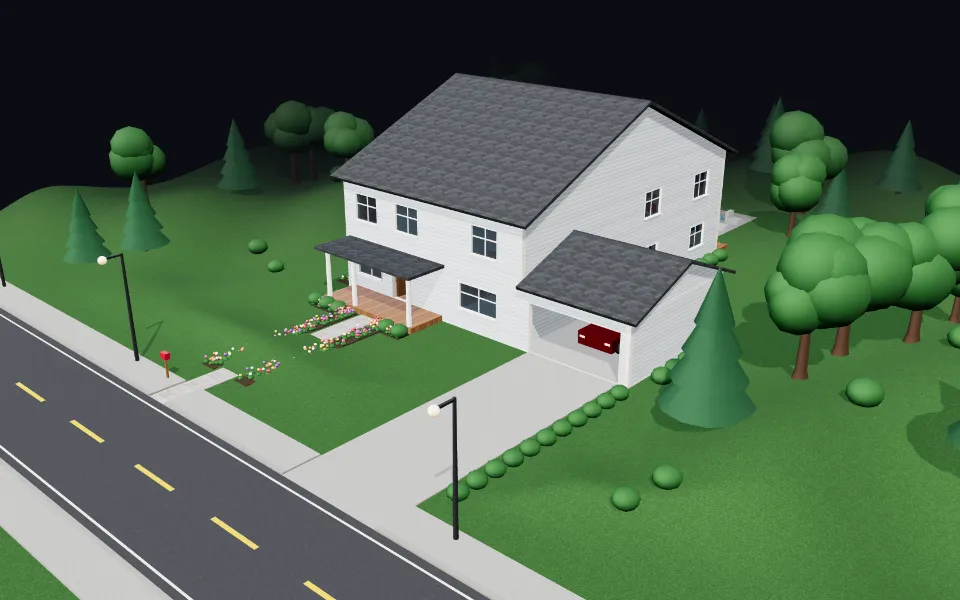
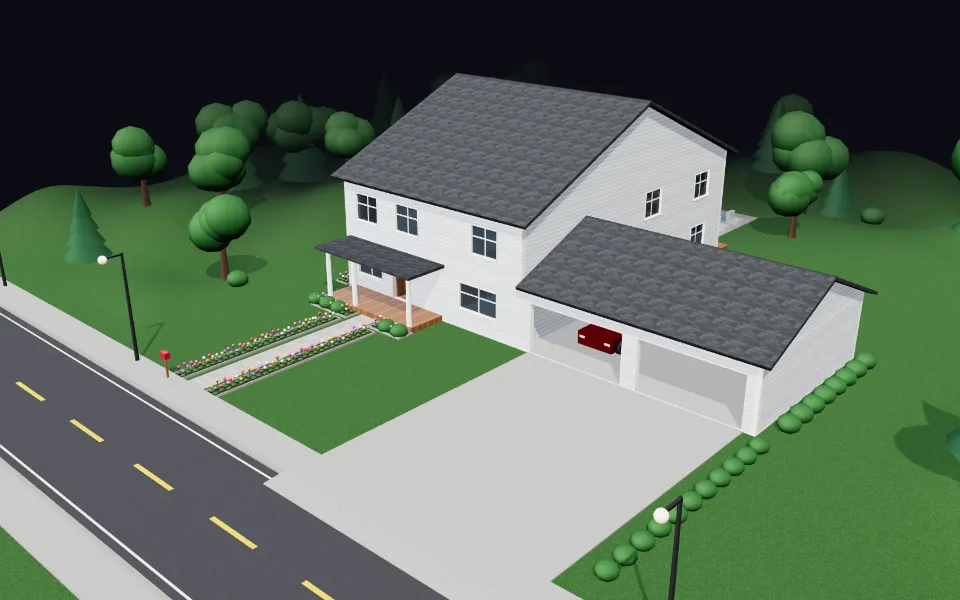
Villa 3D: Garage doppelt so breit und laenger mit Regalen und Motorrad; Weg und Buergersteig sauber verbunden

diff --git a/sachen/villa/index.html b/sachen/villa/index.html
@@ -357,6 +357,7 @@
       markWhite: M({ color: 0xe8e8e2, roughness: 0.8 }),
       markYellow: M({ color: 0xe6b422, roughness: 0.8 }),
       curb: M({ color: 0x8f8d88, roughness: 0.9 }),
+      bikePaint: P({ color: 0x1b4fa8, metalness: 0.6, roughness: 0.25, clearcoat: 1, clearcoatRoughness: 0.08 }),
       redBox: M({ color: 0xb3262e, roughness: 0.5 }),
       steel: M({ color: 0xb8bcc0, metalness: 0.9, roughness: 0.3 }),
       dark: M({ color: 0x24262a, roughness: 0.6 }),
@@ -466,7 +467,7 @@
     }
 
     // --- Gelaende: flach um Haus, Einfahrt und Pool, nach aussen sanfte Huegel ---
-    const FLAT = [[-8.5, 14, -23.5, 17], [-34, 40, 16, 28.5]];
+    const FLAT = [[-8.5, 22, -23.5, 17], [-34, 40, 16, 28.5]];
     const HOLES = [[-HX, HX, BZ, HZ], [POOL.x0 - 0.2, POOL.x1 + 0.2, POOL.z0 - 0.2, POOL.z1 + 0.2]];
     const inRect = (x, z, [x0, x1, z0, z1]) => x > x0 && x < x1 && z > z0 && z < z1;
     function terrain(x, z) {
@@ -625,7 +626,7 @@
       world.add(col);
       circles.push([x, HZ + 2.0, 0.15]);
     }
-    box(-2.6, 0, HZ + 2.2, -1.4, 0.04, ROAD.z0, mat.stone, { name: "Weg" });
+    box(-2.6, 0, HZ + 2.2, -1.4, 0.04, ROAD.walk0, mat.stone, { name: "Weg" });
 
     // Haustuer offen nach innen
     {
@@ -640,16 +641,91 @@
     }
 
     // --- Garage rechts, Tuer zur Kueche, Tor offen ---
-    const GX0 = HX, GX1 = 12.125, GZ0 = -3.125, GZ1 = HZ, GH = 3.2;
-    box(GX0, 0, GZ0, GX1, 0.1, GZ1, floorFaces(mat.concrete, mat.concrete), { name: "Garagenboden" });
-    wall("x", GX0, GX1, GZ0 + WALL / 2, 0, GH, [], faces("-z", mat.siding, mat.plaster));
-    wall("z", GZ0 + WALL, GZ1, GX1 - WALL / 2, 0, GH, [], faces("+x", mat.siding, mat.plaster));
-    wall("x", GX0, GX1, GZ1 - WALL / 2, 0, GH, [[6.6, 11.6, 0, 2.5]], faces("+z", mat.siding, mat.plaster));
-    box(GX0, GH, GZ0, GX1, GH + 0.1, GZ1, floorFaces(mat.trim, mat.ceiling), { name: "Garagendecke" });
-    box(6.6, 2.5, 1.6, 11.6, 2.56, GZ1 - 0.1, mat.white, { name: "Garagentor (offen)" });
-    gableRoof(GX0, GX1, GZ0, GZ1, GH + 0.1, 1.5, 0.45, roof, 0);
-    gable(GX1, GZ0, GZ1, GH + 0.1, 1.5, roof);
-    box(6.6, 0, GZ1, 11.6, 0.05, ROAD.z0, mat.concrete, { name: "Einfahrt" });
+    // Doppelt so breit (12 m) und laenger (9.6 m): zwei Stellplaetze (Auto, Motorrad), hinten Regale
+    const GX0 = HX, GX1 = 18.125, GZ0 = -5.0, GZ1 = HZ, GH = 3.2;
+    const DOORS = [[6.7, 11.7], [12.5, 17.5]];
+    const DRIVE = [6.6, 17.6];
+    box(GX0, 0, GZ0, GX1, 0.1, GZ1, floorFaces(mat.concrete, mat.concrete), { name: 'Garagenboden' });
+    wall('x', GX0, GX1, GZ0 + WALL / 2, 0, GH, [], faces('-z', mat.siding, mat.plaster));
+    wall('z', GZ0 + WALL, GZ1, GX1 - WALL / 2, 0, GH, [], faces('+x', mat.siding, mat.plaster));
+    wall('x', GX0, GX1, GZ1 - WALL / 2, 0, GH, DOORS.map(([a, b]) => [a, b, 0, 2.5]), faces('+z', mat.siding, mat.plaster));
+    box(GX0, GH, GZ0, GX1, GH + 0.1, GZ1, floorFaces(mat.trim, mat.ceiling), { name: 'Garagendecke' });
+    for (const [a, b] of DOORS) box(a, 2.5, 1.6, b, 2.56, GZ1 - 0.1, mat.white, { name: 'Garagentor (offen)' });
+    gableRoof(GX0, GX1, GZ0, GZ1, GH + 0.1, 2.0, 0.45, roof, 0);
+    gable(GX1, GZ0, GZ1, GH + 0.1, 2.0, roof);
+    // Einfahrt: vor der Garage auf Hoehe 0.05, ueber den Buergersteig durchgehend auf 0.12, am Randstein abgesenkt
+    box(DRIVE[0], 0, GZ1, DRIVE[1], 0.05, ROAD.walk0, mat.concrete, { name: 'Einfahrt' });
+    box(DRIVE[0], 0, ROAD.walk0, DRIVE[1], 0.12, ROAD.z0 - 0.2, mat.concrete, { name: 'Einfahrt' });
+    {
+      // Absenkung: schraege Platte vom Gehweg (0.12) zur Fahrbahn (0.03)
+      const len = 1.0, ramp = new THREE.Mesh(new THREE.BoxGeometry(DRIVE[1] - DRIVE[0], 0.05, len), mat.concrete);
+      ramp.rotation.x = Math.atan2(0.09, len);
+      ramp.position.set((DRIVE[0] + DRIVE[1]) / 2, 0.075, ROAD.z0 - 0.2 + len / 2);
+      ramp.receiveShadow = true;
+      world.add(ramp);
+    }
+
+    // Regale: Staender, vier Bretter, Kisten; als ein fester Block (Kollision)
+    const garage = new THREE.Group();
+    garage.name = 'Garage';
+    world.add(garage);
+    const grng = rng(77);
+    function shelf(x0, x1, z0, z1) {
+      const g = (a, y0, b, y1, c, d, m) => box(a, y0, c, b, y1, d, m, { parent: garage, solid: false });
+      const alongX = x1 - x0 > z1 - z0;
+      const n = Math.max(2, Math.round((alongX ? x1 - x0 : z1 - z0) / 1.1) + 1);
+      for (let i = 0; i < n; i++) {
+        const t = i / (n - 1);
+        if (alongX) { const x = x0 + 0.03 + t * (x1 - x0 - 0.06); g(x - 0.025, 0, x + 0.025, 2.0, z0, z1, mat.steel); }
+        else { const z = z0 + 0.03 + t * (z1 - z0 - 0.06); g(x0, 0, x1, 2.0, z - 0.025, z + 0.025, mat.steel); }
+      }
+      const crates = [mat.redBox, mat.fabric, mat.dark, mat.carpet, mat.wood];
+      for (let k = 0; k < 4; k++) {
+        const y = 0.35 + k * 0.5;
+        g(x0, y, x1, y + 0.04, z0, z1, mat.wood);
+        const len = alongX ? x1 - x0 : z1 - z0;
+        for (let p = 0.15; p < len - 0.5; p += 0.45 + grng() * 0.35) {
+          const w = 0.28 + grng() * 0.25, h = 0.16 + grng() * 0.22, m = crates[Math.floor(grng() * crates.length)];
+          if (alongX) g(x0 + p, y + 0.04, x0 + p + w, y + 0.04 + h, z0 + 0.06, z1 - 0.06, m);
+          else g(x0 + 0.06, y + 0.04, x1 - 0.06, y + 0.04 + h, z0 + p, z0 + p + w, m);
+        }
+      }
+      solids.push({ x0, x1, y0: 0, y1: 2.0, z0, z1 });
+    }
+    const BACK = GZ0 + WALL;
+    shelf(6.7, 9.9, BACK, BACK + 0.5);
+    shelf(10.4, 13.6, BACK, BACK + 0.5);
+    shelf(14.1, 17.3, BACK, BACK + 0.5);
+    shelf(GX0, GX0 + 0.5, -4.2, -1.6);
+    shelf(GX1 - WALL - 0.5, GX1 - WALL, -4.2, -1.0);
+
+    // Motorrad im zweiten Stellplatz, Bug zur Garagenoeffnung (+z)
+    {
+      const g = (a, y0, b, y1, c, d, m) => box(a, y0, c, b, y1, d, m, { parent: garage, solid: false });
+      const bx = 15.2;
+      for (const z of [-1.8, -3.15]) {
+        const w = new THREE.Mesh(new THREE.CylinderGeometry(0.33, 0.33, 0.14, 24), mat.tire);
+        w.rotation.z = Math.PI / 2;
+        w.position.set(bx, 0.33, z);
+        w.castShadow = true;
+        garage.add(w);
+        const hub = new THREE.Mesh(new THREE.CylinderGeometry(0.12, 0.12, 0.16, 12), mat.steel);
+        hub.rotation.z = Math.PI / 2;
+        hub.position.set(bx, 0.33, z);
+        garage.add(hub);
+      }
+      g(bx - 0.04, 0.38, bx + 0.04, 0.62, -3.2, -1.9, mat.dark);          // Rahmen
+      g(bx - 0.14, 0.28, bx + 0.14, 0.55, -2.85, -2.3, mat.steel);        // Motor
+      g(bx - 0.17, 0.62, bx + 0.17, 0.9, -2.75, -2.0, mat.bikePaint);     // Tank
+      g(bx - 0.14, 0.62, bx + 0.14, 0.76, -3.35, -2.75, mat.dark);        // Sitz
+      g(bx - 0.03, 0.3, bx + 0.03, 1.02, -1.85, -1.75, mat.steel);        // Gabel
+      g(bx - 0.28, 1.0, bx + 0.28, 1.06, -1.88, -1.78, mat.dark);         // Lenker
+      g(bx + 0.14, 0.22, bx + 0.24, 0.34, -3.5, -2.4, mat.steel);         // Auspuff
+      const lamp = new THREE.Mesh(new THREE.SphereGeometry(0.1, 12, 8), mat.lamp);
+      lamp.position.set(bx, 0.88, -1.72);
+      garage.add(lamp);
+      solids.push({ x0: bx - 0.3, x1: bx + 0.3, y0: 0, y1: 1.1, z0: -3.55, z1: -1.45 });
+    }
 
     // Auto: Karosserie, Kabine mit Scheiben, Raeder
     {
@@ -781,8 +857,8 @@
       world.add(street);
       const st = (a, y0, b, y1, c, d, m, solid = true) => box(a, y0, c, b, y1, d, m, { parent: street, solid });
       st(x0, 0, x1, 0.03, z0, z1, mat.asphalt);
-      // Buergersteig vorne: Luecken fuer Weg (-2.6..-1.4) und Einfahrt (6.6..11.6), dort laeuft Pflaster/Beton durch
-      for (const [a, b] of [[x0, -2.6], [-1.4, 6.6], [11.6, x1]]) {
+      // Buergersteig vorne: durchgehend, nur an der Einfahrt unterbrochen (dort laeuft die Einfahrt durch); der Weg schliesst am Buergersteig an
+      for (const [a, b] of [[x0, DRIVE[0]], [DRIVE[1], x1]]) {
         st(a, 0, b, 0.12, walk0, z0 - 0.2, mat.concrete);
         st(a, 0, b, 0.12, z0 - 0.2, z0, mat.curb);
       }
@@ -795,7 +871,7 @@
       st(x0, 0.03, x1, 0.035, z0 + 0.35, z0 + 0.45, mat.markWhite, false);
       st(x0, 0.03, x1, 0.035, z1 - 0.45, z1 - 0.35, mat.markWhite, false);
       // Strassenlampen auf dem Buergersteig, Leuchtkoerper nachts hell
-      for (const x of [-20, -6, 14, 28]) {
+      for (const x of [-20, -6, 22, 32]) {
         const pole = new THREE.Mesh(new THREE.CylinderGeometry(0.06, 0.09, 5.2, 10), mat.dark);
         pole.position.set(x, 2.7, walk0 + 0.4);
         pole.castShadow = true;
@@ -876,8 +952,8 @@
     for (let x = -5.6; x <= 0.8; x += 0.9) if (Math.abs(x + 2) > 1) bushSpots.push([x, HZ + 2.7, 0.45]);
     for (let z = -13; z <= 4; z += 1.1) bushSpots.push([-HX - 0.7, z, 0.5]);
     for (let z = -13; z <= -3.8; z += 1.1) bushSpots.push([HX + 0.7, z, 0.5]);
-    for (let z = -2.5; z <= 4; z += 1.1) bushSpots.push([GX1 + 0.7, z, 0.5]);
-    for (let z = 5.5; z <= 16; z += 1.0) bushSpots.push([12.3, z, 0.42]);
+    for (let z = GZ0 + 0.5; z <= 4; z += 1.1) bushSpots.push([GX1 + 0.7, z, 0.5]);
+    for (let z = 5.5; z <= 16; z += 1.0) bushSpots.push([18.7, z, 0.42]);
     for (let i = 0; i < 26; i++) {
       const a = prng() * Math.PI * 2, r = 12 + prng() * 14;
       const x = 3 + Math.cos(a) * r, z = CENTER_Z + Math.sin(a) * r;
@@ -1005,7 +1081,7 @@
     const ROOM_LIGHTS = [
       [-3, 2.6, 0], [3.5, 2.6, 0], [-2.5, 2.6, -6.8], [3, 2.6, -6.8], [0, 2.6, -11.3],
       [-3, 5.6, -1], [4, 5.6, -1], [-3, 5.6, -7], [3.5, 5.6, -7], [-3, 5.6, -11.5], [3.5, 5.6, -11.5], [0.3, 5.6, -9],
-      [-3.5, -0.6, 0], [0, -0.6, -9], [9, 2.9, 1]
+      [-3.5, -0.6, 0], [0, -0.6, -9], [9, 2.9, 0], [15, 2.9, 0], [12, 2.9, -3]
     ].map(([x, y, z]) => new THREE.Vector3(x, y, z));
     for (const p of ROOM_LIGHTS) {
       const bulb = new THREE.Mesh(new THREE.SphereGeometry(0.12, 14, 10), mat.lamp);

diff --git a/CLAUDE.md b/CLAUDE.md
@@ -92,9 +92,9 @@ Ein Eintrag kann zusaetzlich als eigene App installierbar sein (Beispiel `sachen
 
 ### Villa 3D (`sachen/villa/`)
 
-- Amerikanisches Haus aus Code (1 = 1 m), **doppelte Tiefe** (18,5 m: vorderer Teil bis zur alten Rückwand `MID`, die jetzt Innenwand mit Türen ist, dahinter der Anbau bis `BZ`). Keller (y -3..0), Erdgeschoss ab 0.3, Obergeschoss ab 3.3, Satteldach (ohne Schornstein, Wunsch von Nicolas). EG: Wohnzimmer, offene Küche, Esszimmer, Büro, hinten Familienzimmer mit grosser Öffnung zur Terrasse. OG: Flur von der Treppe nach hinten, links Elternschlafzimmer und Bad, rechts Kinderzimmer und Spielzimmer, vorne zwei Schlafzimmer (grosse Bodenfliesen mit Relief). Keller: Waschküche, Tischtennis, Sofa, hinten Heimkino und Fitnessecke. Garage rechts neben der Küche (Tür, Tor offen, rotes Auto, Einfahrt), Veranda vorne, hinten Terrasse und Pool (8 x 4 m, 1.5 m tief, drei Stufen, Liegen).
+- Amerikanisches Haus aus Code (1 = 1 m), **doppelte Tiefe** (18,5 m: vorderer Teil bis zur alten Rückwand `MID`, die jetzt Innenwand mit Türen ist, dahinter der Anbau bis `BZ`). Keller (y -3..0), Erdgeschoss ab 0.3, Obergeschoss ab 3.3, Satteldach (ohne Schornstein, Wunsch von Nicolas). EG: Wohnzimmer, offene Küche, Esszimmer, Büro, hinten Familienzimmer mit grosser Öffnung zur Terrasse. OG: Flur von der Treppe nach hinten, links Elternschlafzimmer und Bad, rechts Kinderzimmer und Spielzimmer, vorne zwei Schlafzimmer (grosse Bodenfliesen mit Relief). Keller: Waschküche, Tischtennis, Sofa, hinten Heimkino und Fitnessecke. Garage rechts neben der Küche (12 x 9.6 m, Tür zur Küche, zwei Tore offen, rotes Auto im ersten, blaues Motorrad im zweiten Stellplatz, hinten und an den Seiten Regale mit Kisten; Einfahrt 11 m breit, am Randstein abgesenkt), Veranda vorne, hinten Terrasse und Pool (8 x 4 m, 1.5 m tief, drei Stufen, Liegen).
 - **Treppen übereinander:** Kellertreppe liegt genau unter der Treppe ins Obergeschoss (x -0.25..0.85), gegenläufig (Einstieg hinten im EG bei z -3.9, unten vorne). Beide aus offenen Trittflächen (Stufe = dünner Quader), damit man darunter Kopffreiheit hat; Geländer am Kellerloch.
-- **Strasse vor dem Haus** (`ROAD`, z 18.8..25.2, 34 m Laufgrenze): Asphalt mit gelber Mittellinie und weissen Randlinien, Bürgersteig mit Randstein auf beiden Seiten (0.12 m, begehbar), Weg und Einfahrt laufen über den Bürgersteig durch, vier Strassenlampen (Leuchtkörper nachts hell, keine echten Lichter), Briefkasten am Weg. Gelände dort flach (`FLAT`).
+- **Strasse vor dem Haus** (`ROAD`, z 18.8..25.2, 34 m Laufgrenze): Asphalt mit gelber Mittellinie und weissen Randlinien, Bürgersteig mit Randstein auf beiden Seiten (0.12 m, begehbar), Bürgersteig durchgehend, nur an der Einfahrt unterbrochen; der Weg schliesst am Bürgersteig an, vier Strassenlampen (Leuchtkörper nachts hell, keine echten Lichter), Briefkasten am Weg. Gelände dort flach (`FLAT`).
 - Gelände: Haus, Einfahrt und Garten flach (`FLAT`), nach aussen sanfte Hügel (`terrain()`); Rasen als Gitter mit Löchern für Haus und Pool. Pflanzen: ~35 Laub-/Nadelbäume, Büsche als InstancedMesh, Blumenbeete mit Randsteinen (vor der Veranda, beidseits des Wegs bis zum Bürgersteig, an der linken Hauswand): Blumen in versetzten Reihen mit Stiel und Blatt, Anzahl nach Fläche (InstancedMesh mit Farben). Vorgarten bis zur Strasse ist komplett flach (`FLAT`), sonst steigt der Rasen über Beete und Weg, Hecke an der Einfahrt.
 - Bauweise: `box(x0,y0,z0,x1,y1,z1)` in Weltkoordinaten (fest = `solids`), `wall()` zerlegt Wände in senkrechte Streifen an allen Lochkanten (Fenster im EG und OG übereinander), `slab()` mit einem Treppenloch, `windowIn()`. Danach werden alle Quader gleichen Materials zusammengefasst (Mehrfach-Materialien je Seite neu gruppiert): ~600 → ~180 Zeichenaufrufe. Zimmerlampen: 15 Lampenkörper, aber nur 6 echte Punktlichter (nachts, wandern alle 0.5 s zu den nächsten Lampen; feste Anzahl vermeidet Shader-Neuberechnung); tagsüber heller Himmels-Bodenton und leicht leuchtende Decke.
 - Laufen in 3D: Quader blockieren seitlich zwischen Fuss+0.45 und Kopf; begehbar ist die höchste Quader-Oberseite bis 0.45 über den Füssen (Treppenstufen 0.19), Decke stoppt den Kopf. Im Pool: langsamer, wenig Schwerkraft, Leertaste/Sprung halten = nach oben schwimmen, unter Wasser blauer Nebel. Gehen 4.6 m/s, rennen 7.5.
